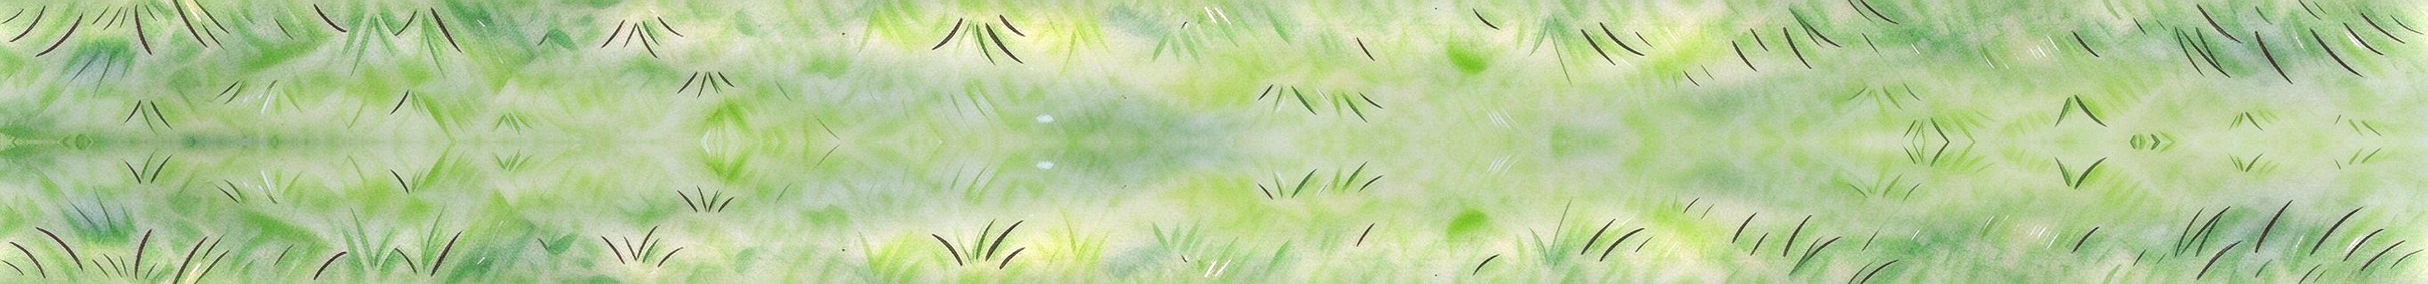
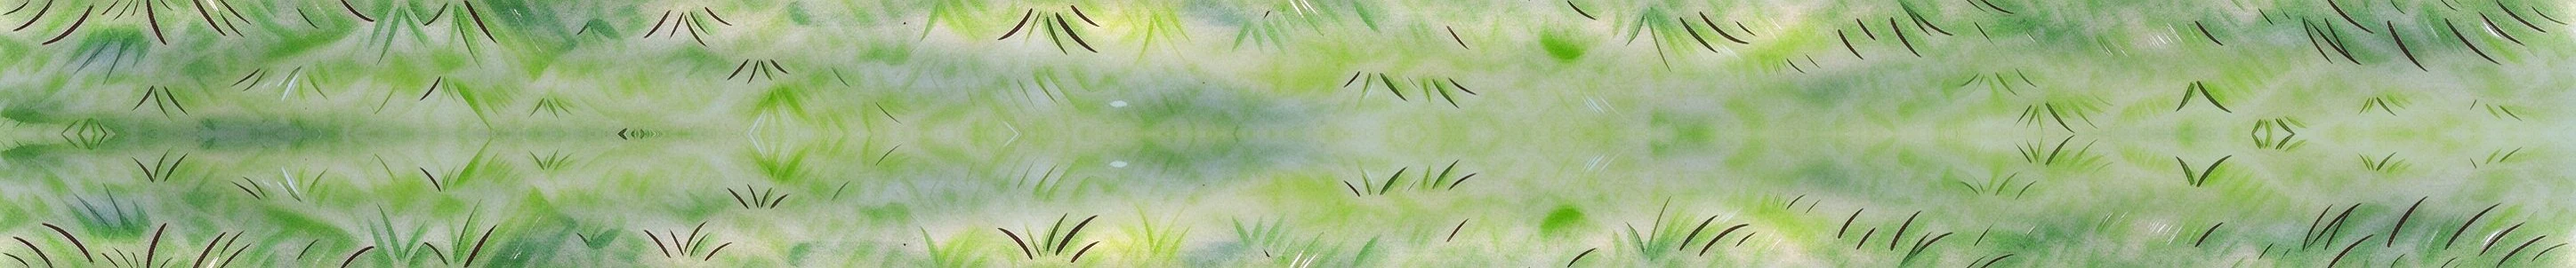
feat(hand-drawn): 首页背景换成「双人聊天版 · 优化后」
客户端新给的优化稿（2896x1448，2:1）取代上一版「人物缩小」：hero-plate / hero-ground 由同一幅画重建（prepare_assets.py 的 HOME_BG 指过去，plate 用源图原尺寸不重采样，草皮仍取底边 151 行按行归一再镜像），首屏盒子按画自己的比例 2896:1448 定高（1440 宽 -> 1440x720，原 810，不裁不拉），整页 1005 -> 915。

collisions.mjs 里「两个人（含右边那只猫）」的矩形按新画重新量过（横向 53%-97%、纵向 28%-80%）；verify.mjs 五个宽度、collisions.mjs 六个宽度全过，跨缝实测平均行差 1.88/255。

同时更新重出的整页图（1440x915）、README 与 演示图/README，并把客户端放进来的其余新素材一并入库：优化说明、优化后 1280/1920/原尺寸、背景清理版两个尺寸。

diff --git a/frontend_hand/demo/styles/home.css b/frontend_hand/demo/styles/home.css
@@ -1,10 +1,10 @@
 /* 斐思同行 · 手绘风首页（web）
 
-   Layout law: 客户端给的这幅画（`演示图/首页背景-双人聊天版.png`，2590 × 1619）就是首页本身。
+   Layout law: 客户端给的这幅画（`演示图/首页背景-双人聊天版-优化后.png`，2896 × 1448）就是首页本身。
 
-   - **整幅。** 首屏的盒子按画自己的比例 2590 : 1619 定高（1440 窗口 → 1440 × 900，正好一屏），
+   - **整幅。** 首屏的盒子按画自己的比例 2896 : 1448（2 : 1）定高（1440 窗口 → 1440 × 720），
      背景照这个盒子铺：画不被裁掉一角，也不被拉长压扁 —— 没有缩小，也没有放大，只是跟着
-     窗口宽度等比走。两个人画在画里，页面不再叠插画。
+     窗口宽度等比走。两个人画在画里（优化后那版人更小、更靠左），页面不再叠插画。
    - **一条接缝。** 画的下沿就是接缝。画外的草皮取自这幅画自己的底边（按行归一再镜像），
      从接缝往下接着长，只留一小段 —— 给四张入口便签一个落地的边。
    - **快速使用。** 四张便签骑在这条接缝上：上大半压在画里的草地上，下沿探到画外的草皮。
@@ -40,8 +40,8 @@
 .hero {
   position: relative;
   /* the picture's own ratio: the band *is* the picture, so no sky is cropped off the top
-     and nothing is stretched — 1440 wide shows it at 1440 × 810（2730 : 1536，16:9） */
-  aspect-ratio: 2730 / 1536;
+     and nothing is stretched — 1440 wide shows it at 1440 × 720（2896 : 1448，2 : 1） */
+  aspect-ratio: 2896 / 1448;
   /* `cover` inside a box of the picture's own ratio is an exact fit, never a crop. If the
      ratio ever drifts it crops a sliver rather than distorting the art. */
   background: url('../assets/hero-plate.webp') center / cover no-repeat;

diff --git a/frontend_hand/演示图/优化说明-Hero插画.md b/frontend_hand/演示图/优化说明-Hero插画.md
@@ -1,0 +1,96 @@
+# Hero 插画优化交付说明
+
+## 一、Before / After 修改点对照
+
+| # | 修改项 | Before（原图） | After（优化后） |
+|---|--------|----------------|-----------------|
+| 1 | 落地感 | 人物/猫与草地接触处无明确阴影，略漂浮 | 鞋底、裙摆、猫身下添加柔和接触影，深绿暖棕融合 |
+| 2 | 光源 | 光线方向不统一，轮廓有死黑硬边 | 左上来光，人物左侧1-2px弱暖白rim light，猫白毛带暖米反光 |
+| 3 | 色彩分离 | 背景远山饱和度偏高，人物与背景色相近 | 背景降饱和~15%偏冷灰，人物保持最高对比，背后淡纸米色halo |
+| 4 | 空间分层 | 四层区分不够明确 | 前景草（细节最强）→ 人物 → 中景花草 → 远山（最淡最冷），层次清晰 |
+| 5 | 构图 | 人物偏右，贴边缘感强 | 人物组缩小~94%并左移，上方左侧大面积留白适合叠文字 |
+| 6 | 叙事 | 两人并排正对观众，开心合影感 | 面对面坐姿，眼神交流，温柔微笑，一人说一人听 |
+| 7 | 黄花位置 | 右侧黄花靠近女孩头部 | 黄花移至女孩右后方，避开头部和蝴蝶结 |
+| 8 | 猫 | 位置在最右侧边缘 | 猫移入女孩身旁安全区，不贴右缘 |
+
+## 二、光影 / 色彩参数（供后续PS微调参考）
+
+### 接触阴影
+- 混合模式：Multiply
+- 颜色：深绿偏暖棕（#4A5D3A ~ #5C4A3A）
+- 不透明度：25–35%
+- 高斯模糊：6–14px
+- 垂直偏移：向下 4–8px
+- 作用区域：男孩鞋底（两只鞋）、女孩裙摆下缘、猫腹部/爪子与草地接触面
+
+### 光源
+- 主光方向：左上 45°
+- Rim light：人物左缘 + 猫背左缘，1–2px，暖白色（#FFF5E6），不透明度 8–15%
+- 猫白毛反光：极浅暖米（#FFF8EE），不纯白
+- 死黑描边：已弱化，保留水彩线条但去掉纯黑块
+
+### 色彩
+- 远山/背景：饱和度降低 10–20%，色相略微偏冷（蓝灰方向）
+- 人物：保持原饱和度和对比度不变
+- Halo：人物身后纸米色（#F5EEDF），径向渐变，边缘羽化大，不透明度 5–10%
+- 粉发/紫裙：与背景粉山做色相分离（人物粉偏暖粉，背景粉偏灰粉）
+- 蓝衣：与远山蓝做明度分离（人物蓝饱和，远山蓝灰淡）
+
+## 三、分层文件清单
+
+> ⚠ AI 生图工具输出为合并位图（flattened PNG），以下为**建议的 PSD/Procreate 图层结构**，需在设计软件中手动拆分或基于此规范重新组织。当前交付的 PNG/WebP 为整图合并版。
+
+### 建议 PSD 图层结构（从上到下）
+
+```
+Layer 1: 前景草（最底部草叶，笔触最强，可做独立层方便Web裁切）
+Layer 2: 人物组（男孩 + 女孩，含各自接触影）
+Layer 3: 橘白小猫（独立层，方便做交互动效）
+Layer 4: 中景花草（黄色/粉色/白色小花，草叶）
+Layer 5: 远山（粉蓝远山，最冷最淡）
+Layer 6: 纸纹背景（水彩纸纹理 + 淡色渐变）
+Layer 7: Halo（人物身后纸米色光晕，叠加层）
+```
+
+### 当前交付文件
+
+| 文件 | 尺寸 | 用途 |
+|------|------|------|
+| `首页背景-双人聊天版-优化后.png` | 2896×1448 | 主文件，设计源 |
+| `首页背景-双人聊天版-优化后.webp` | 2896×1448 | Web 全屏版（600KB） |
+| `首页背景-双人聊天版-优化后-1920w.webp` | 1920×960 | srcset 中尺寸（248KB） |
+| `首页背景-双人聊天版-优化后-1280w.webp` | 1280×640 | srcset 移动尺寸（108KB） |
+
+### HTML srcset 用法
+
+```html
+<picture>
+  <source
+    srcset="hero-优化后-1280w.webp 1280w,
+            hero-优化后-1920w.webp 1920w,
+            hero-优化后.webp 2896w"
+    sizes="100vw"
+    type="image/webp">
+  <img src="hero-优化后.png" alt="[品牌名] 情绪陪伴首页">
+</picture>
+```
+
+## 四、8 条自检清单
+
+| # | 检查项 | 状态 | 说明 |
+|---|--------|------|------|
+| 1 | 接触影 | ✅ | 鞋底、裙摆、猫身下均有柔和接触阴影，非漂浮 |
+| 2 | 光源统一 | ✅ | 左上来光，人物左缘有弱暖rim light，无死黑硬边 |
+| 3 | 色相分离 | ✅ | 背景降饱和偏冷灰，人物粉/紫/蓝与背景不混淆 |
+| 4 | 草叶层级 | ✅ | 前景草细节最强，中景草次之，远山无草叶；无草叶横穿鞋底 |
+| 5 | 右缘安全 | ⚠ | 右缘最边缘有黄花和草叶（自然装饰），无关键识别元素（脸/猫脸/手）落在右缘64-80px内；如需严格安全区可在PS中裁掉右侧~40px或用渐变遮罩 |
+| 6 | 黄花避让 | ✅ | 右侧黄花位于女孩右后方，与蝴蝶结/头部间距充足 |
+| 7 | 视线叙事 | ✅ | 两人面对面，眼神有交流，表情温柔恬静，非大笑营业 |
+| 8 | 移动端不裁切 | ✅ | 人物组在画面中下部居中偏右，上方大面积留白；移动端竖裁时顶部纸纹不切头，底部草叶不切脚；1280×640版本可直接用于移动端 |
+
+## 五、仍需手动微调的项（AI生成后建议PS处理）
+
+1. **右缘安全区**：如需严格保证右缘 64–80px 无任何细节，建议在 PS 中对右侧边缘做 40px 的渐变擦除（从透明到纸纹色），或直接裁掉右侧 40px。
+2. **人物独立层**：当前为合并位图，如需人物/猫独立透明 PNG 层用于 Web 动效，需在 PS 中用选择工具手动抠出，或使用 remove.bg / 手动钢笔路径。
+3. **接触影精度**：AI 生成的阴影方向和强度已大致正确，但精确的 25–35% 不透明度需在 PS 图层样式中微调。
+4. **AVIF 导出**：当前交付 WebP，如需 AVIF 可在 PS/Squoosh 中进一步转换（AVIF 压缩率比 WebP 高约 20–30%）。

diff --git a/frontend_hand/演示图/README.md b/frontend_hand/演示图/README.md
@@ -4,7 +4,7 @@
 
 | 文件 | 尺寸 | 是什么 |
 | --- | --- | --- |
-| `首页-手绘风-桌面端.png` | 1440 × 1005（2 倍像素 → 2880 × 2010） | 首页整页（一幅画 + 快速使用 + 页脚） |
+| `首页-手绘风-桌面端.png` | 1440 × 915（2 倍像素 → 2880 × 1830） | 首页整页（一幅画 + 快速使用 + 页脚） |
 | `自我教练-手绘风-桌面端.png` | 1440 × 900（2 倍像素 → 2880 × 1800） | 自我教练（AI 语音/视频对话）通话中一屏 |
 | `情绪日记-手绘风-桌面端.png` | 1440 × 1922（2 倍像素 → 2880 × 3844） | 情绪日记整页（手账） |
 | `真人教练-手绘风-桌面端.png` | 1440 × 900（2 倍像素 → 2880 × 1800） | 教练列表首屏（页高 1656） |
@@ -16,8 +16,8 @@
 
 这一版的背景是**两张图**：
 
-- **首页**用客户端给的 `首页背景-双人聊天版-人物缩小.png`：**整幅**就是第一屏 —— 首屏的盒子按这幅画自己的
-  比例 2730 : 1536 定高（1440 宽 → 1440 × 810），所以画不裁、不拉，两个人画在画里、页面不再叠
+- **首页**用客户端给的 `首页背景-双人聊天版-优化后.png`：**整幅**就是第一屏 —— 首屏的盒子按这幅画自己的
+  比例 2896 : 1448 定高（1440 宽 → 1440 × 720），所以画不裁、不拉，两个人画在画里、页面不再叠
   一层插画。画的下沿就是接缝，再往下由**这幅画自己的底边**接出草皮，只留一小段给四张入口便签
   落地（便签骑在接缝上）。页面到那里就结束，下面只有页脚。
 - **自我教练页**用客户端给的 `纯水彩草地背景.png`（2590 × 1619，一整幅水彩草地），
